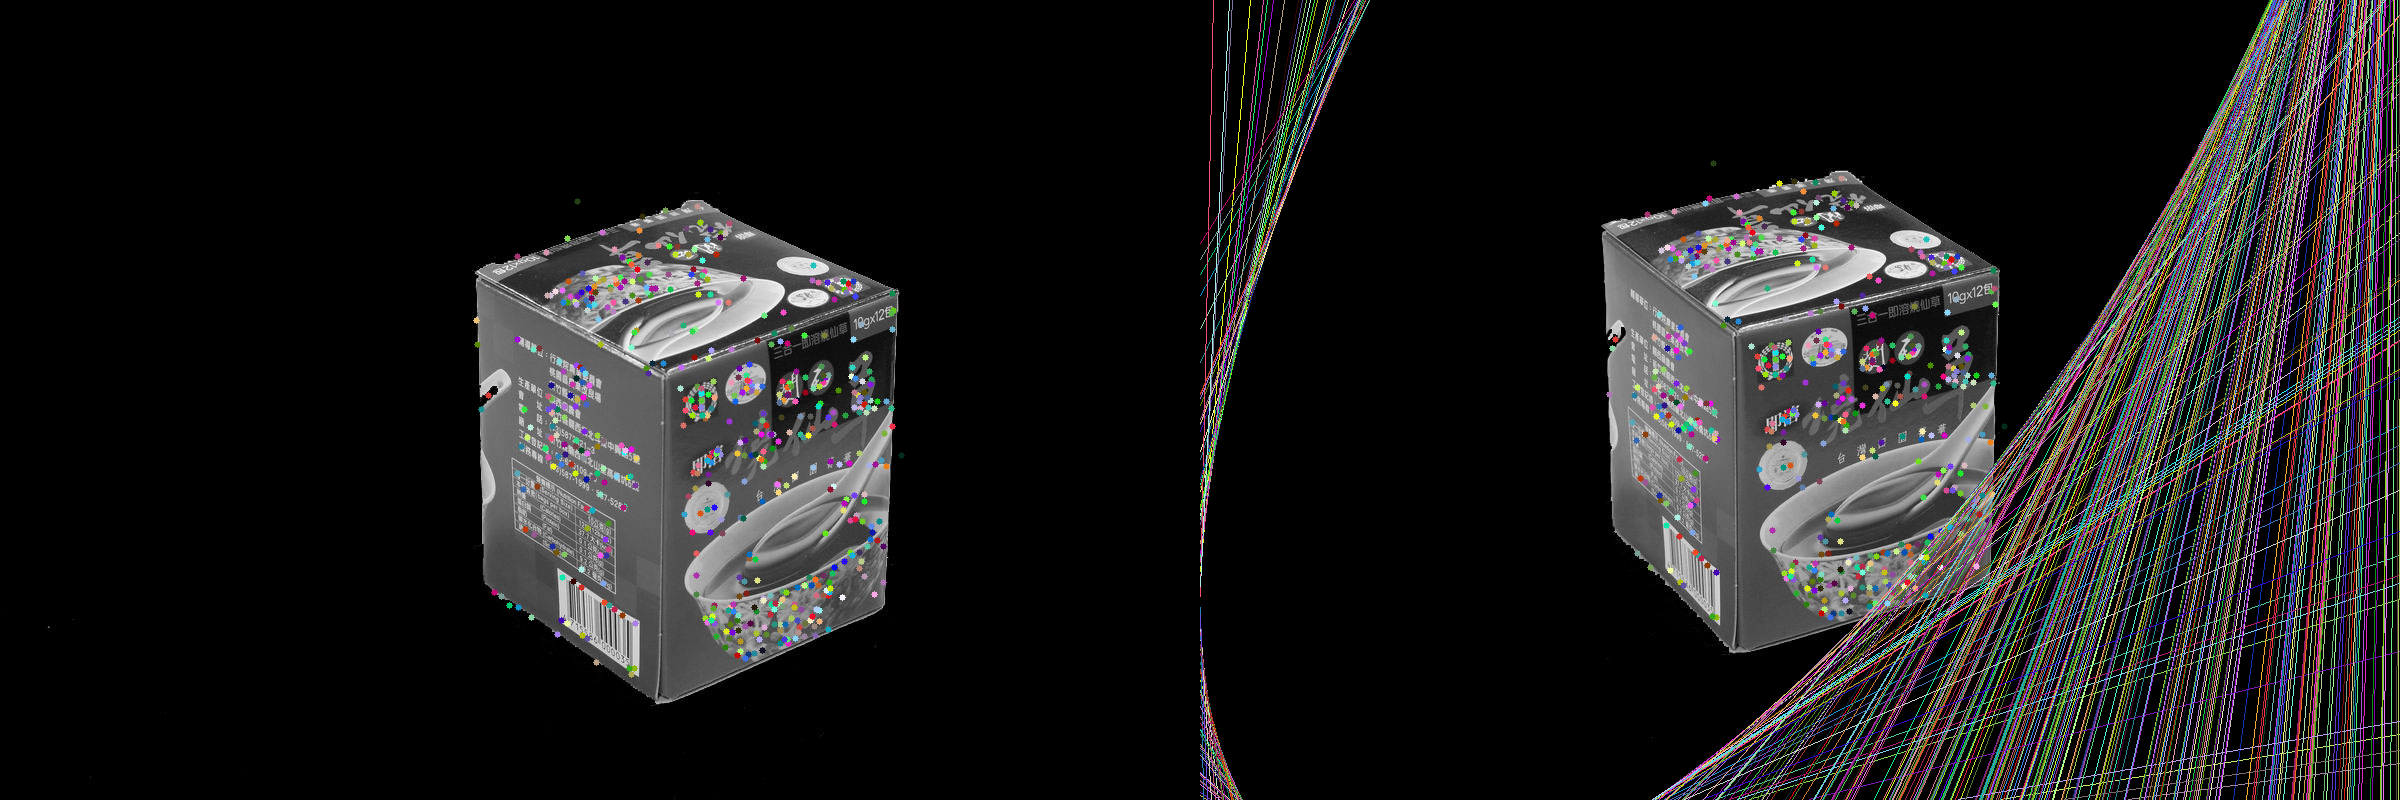
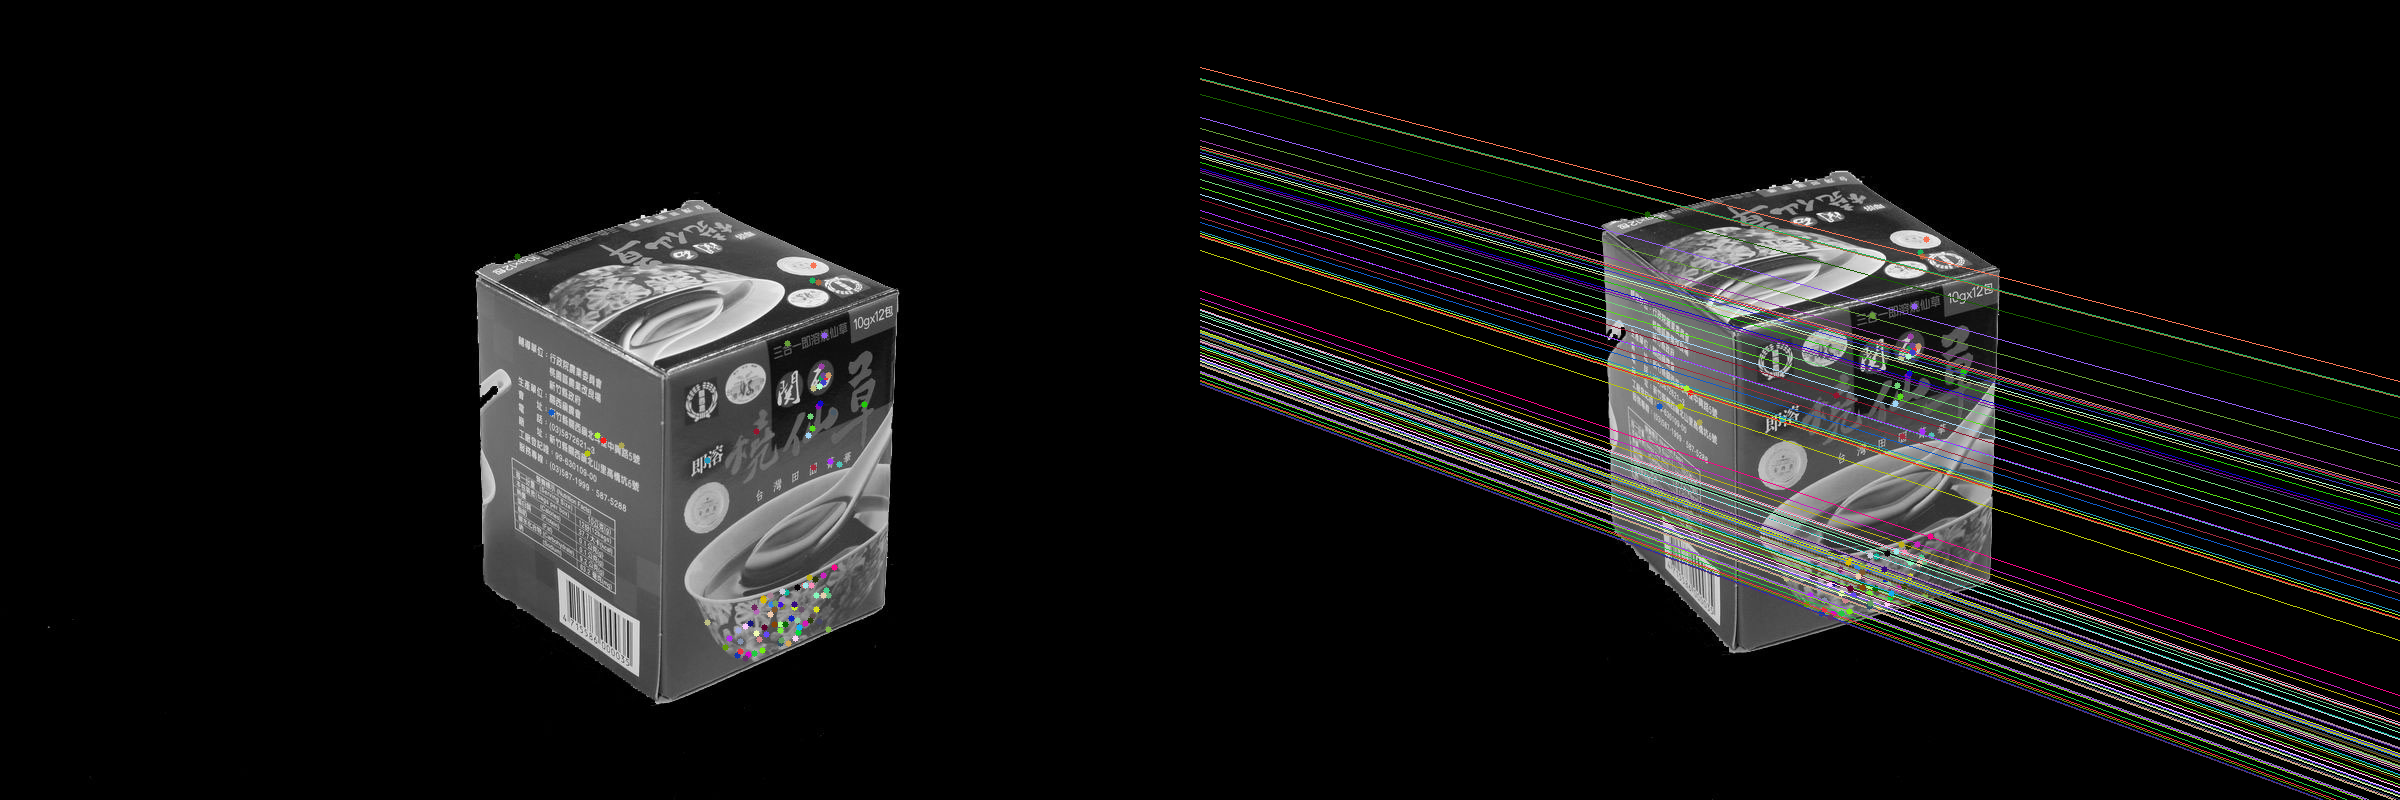
step3

diff --git a/lab4/draw.py b/lab4/draw.py
@@ -9,25 +9,12 @@ def draw(l, lp, x, xp, img1, img2):
     pic2 = cv2.cvtColor(img2, cv2.COLOR_GRAY2BGR)
     h, w = img1.shape
     
-    r = l[0]
-    pt_x = x.T[0]
-    pt_xp = xp.T[0]
-    color = (255, 0, 0)
-    x0 = 0
-    y0 = (-r[2]/r[1]).astype(np.int)
-    x1 = w
-    y1 = (-(r[2]+r[0]*w)/r[0]).astype(np.int)
-    pic1 = cv2.line(pic1, (y0,x0), (y1,x1), color, 1)
-    pic1 = cv2.circle(pic1, tuple((int(pt_x[0]), int(pt_x[1]))), 3, color, -1)
-    pic2 = cv2.circle(pic2, tuple((int(pt_xp[0]), int(pt_xp[1]))), 3, color, -1) 
-    cv2.imwrite('./step3/test.png', np.concatenate((pic1, pic2), axis=1))
-    
     for r, pt_x, pt_xp in zip(l, x.T, xp.T):
         color = tuple(np.random.randint(0, 255, 3).tolist())
         x0 = 0
         y0 = (-r[2]/r[1]).astype(np.int)
         x1 = w
-        y1 = (-(r[2]+r[0]*w)/r[0]).astype(np.int)
+        y1 = (-(r[2]+r[0]*w)/r[1]).astype(np.int)
         pic1 = cv2.line(pic1, (x0, y0), (x1, y1), color, 1)
         pic1 = cv2.circle(pic1, tuple((int(pt_x[0]), int(pt_x[1]))), 3, color, -1)
         pic2 = cv2.circle(pic2, tuple((int(pt_xp[0]), int(pt_xp[1]))), 3, color, -1)
@@ -42,7 +29,7 @@ def draw(l, lp, x, xp, img1, img2):
         x0 = 0
         y0 = (-r[2]/r[1]).astype(np.int)
         x1 = w
-        y1 = (-(r[2]+r[0]*w)/r[0]).astype(np.int)
+        y1 = (-(r[2]+r[0]*w)/r[1]).astype(np.int)
         pic2 = cv2.line(pic2, (x0,y0), (x1,y1), color, 1)
         pic1 = cv2.circle(pic1, tuple((int(pt_x[0]), int(pt_x[1]))), 3, color, -1)
         pic2 = cv2.circle(pic2, tuple((int(pt_xp[0]), int(pt_xp[1]))), 3, color, -1)

diff --git a/lab4/RANSAC.py b/lab4/RANSAC.py
@@ -73,8 +73,8 @@ class RANSAC():
             test_x2 = x2[:, test_idxs]
             
             #calculate possible F
-            maybe_F = self.Eight_points(try_x1, try_x2, T1, T2)
-            #maybe_F, _ = cv2.findFundamentalMat(try_x1.T, try_x2.T, cv2.FM_LMEDS)
+            #maybe_F = self.Eight_points(try_x1, try_x2, T1, T2)
+            maybe_F, _ = cv2.findFundamentalMat(try_x1.T, try_x2.T, cv2.FM_LMEDS)
             # get error of every pair for maybe_F
             test_err = self.Cal8points_err(test_x1, test_x2, maybe_F)
             #print(test_err.mean())

diff --git a/lab4/SfM.py b/lab4/SfM.py
@@ -58,8 +58,8 @@ print("Lines: ", Lines[0])
 norm_x, T1 = normalize(h_x, img1.shape)
 norm_xp, T2 = normalize(h_xp, img2.shape)
 
-RSC8pt = RANSAC(thresh = 1000, n_times = 1000, points = 8)
-F, idx = RSC8pt.ransac_8points(norm_x, norm_xp, T1, T2)
+RSC8pt = RANSAC(thresh = 3, n_times = 1000, points = 8)
+F, idx = RSC8pt.ransac_8points(h_x, h_xp, T1, T2)
 print(F)
 print("idx ", idx)
 
